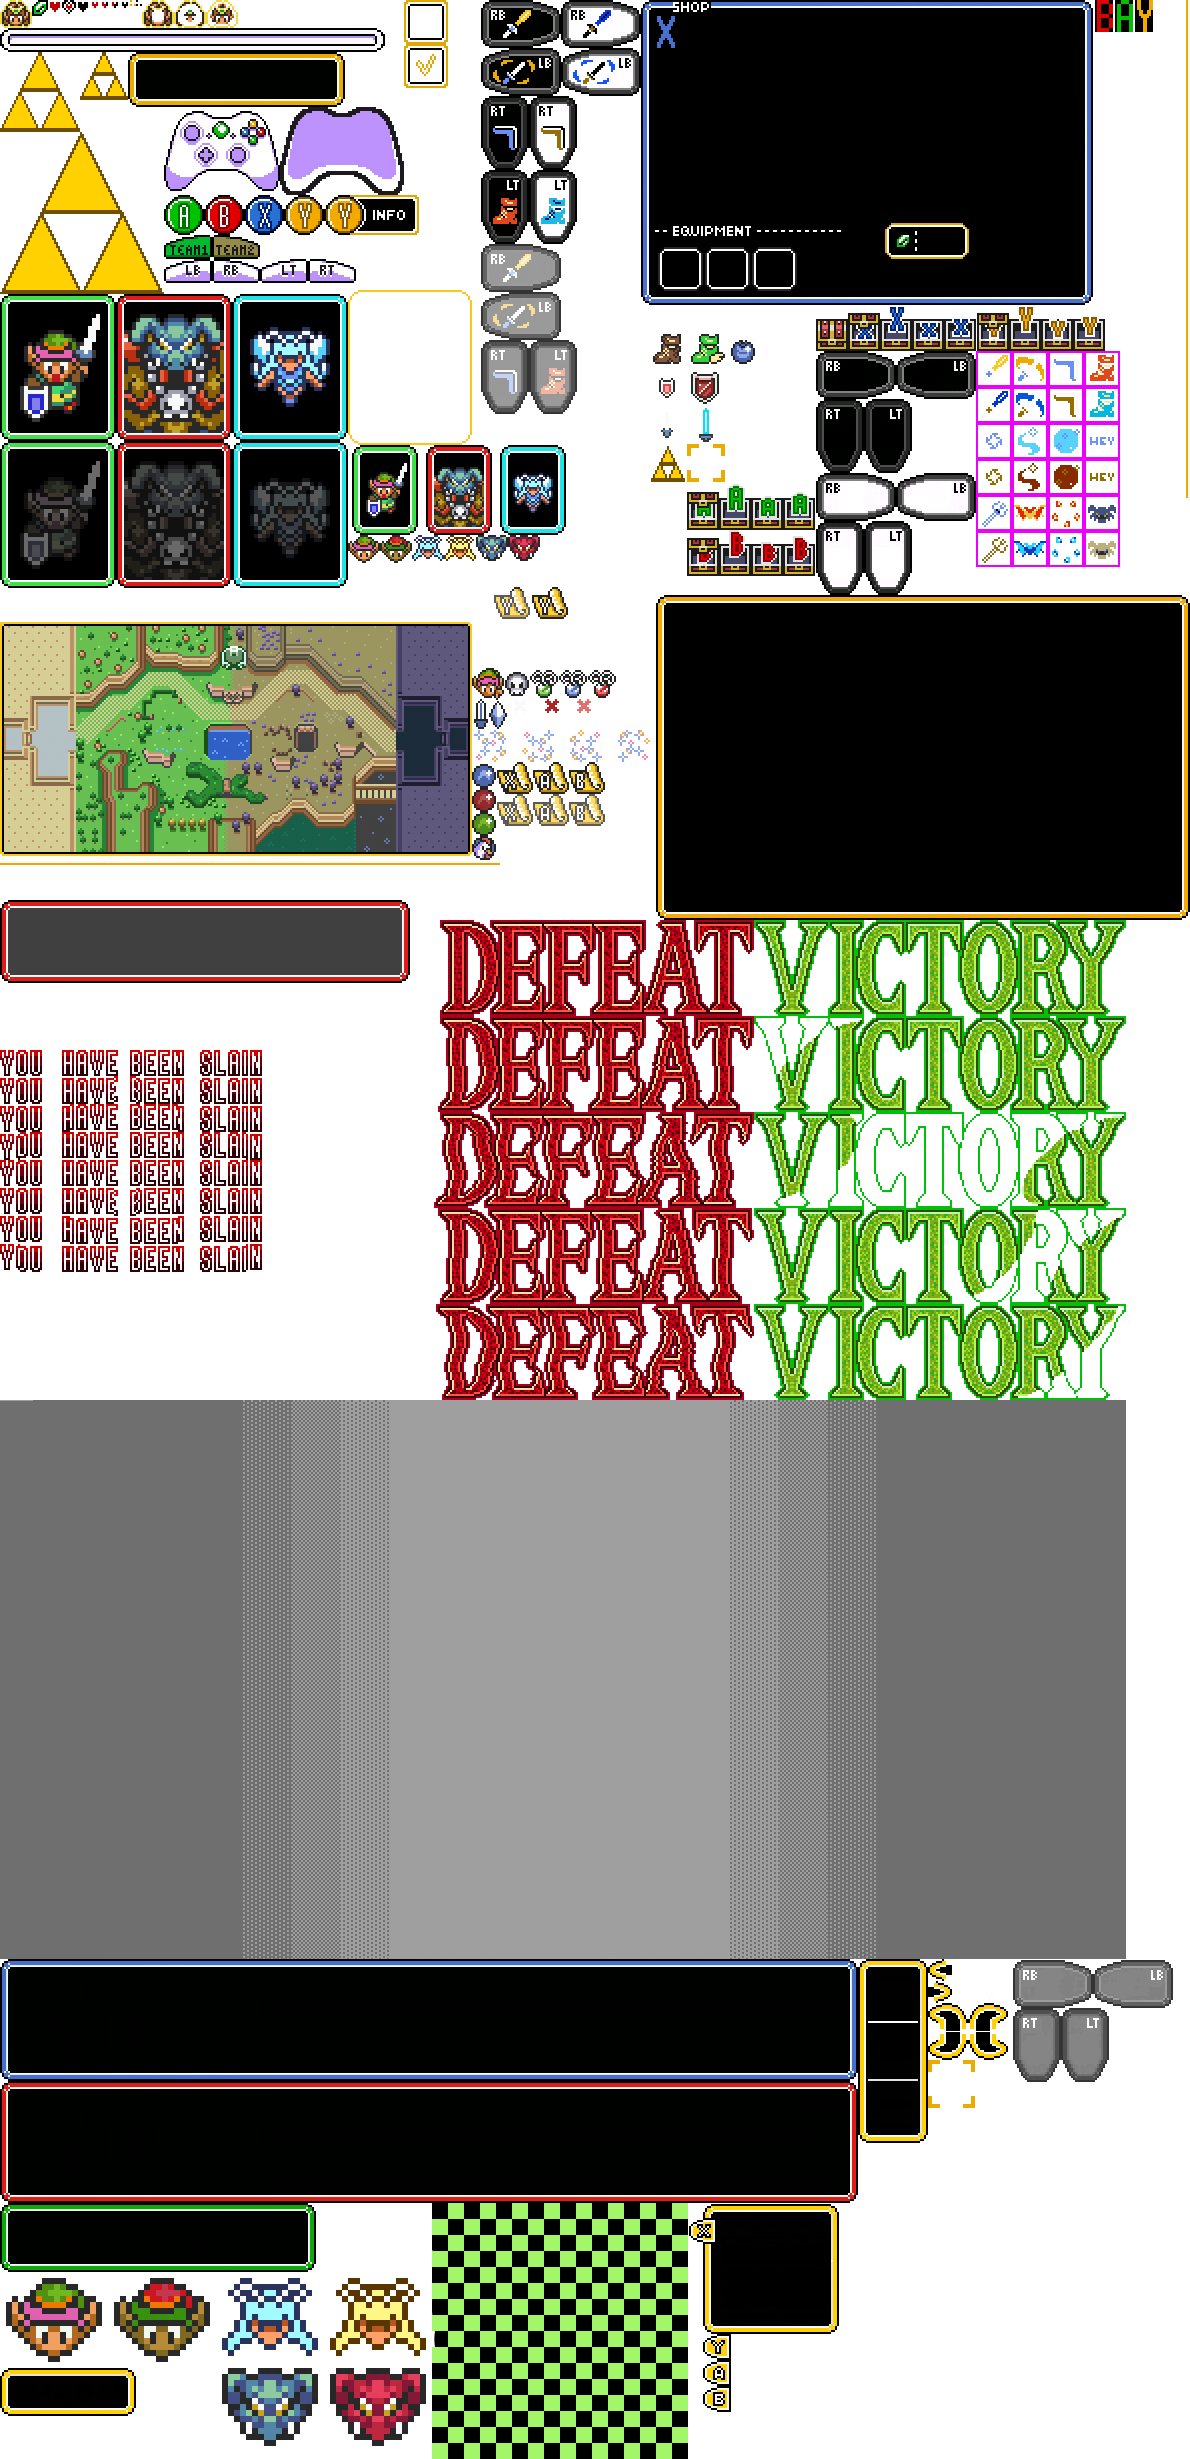
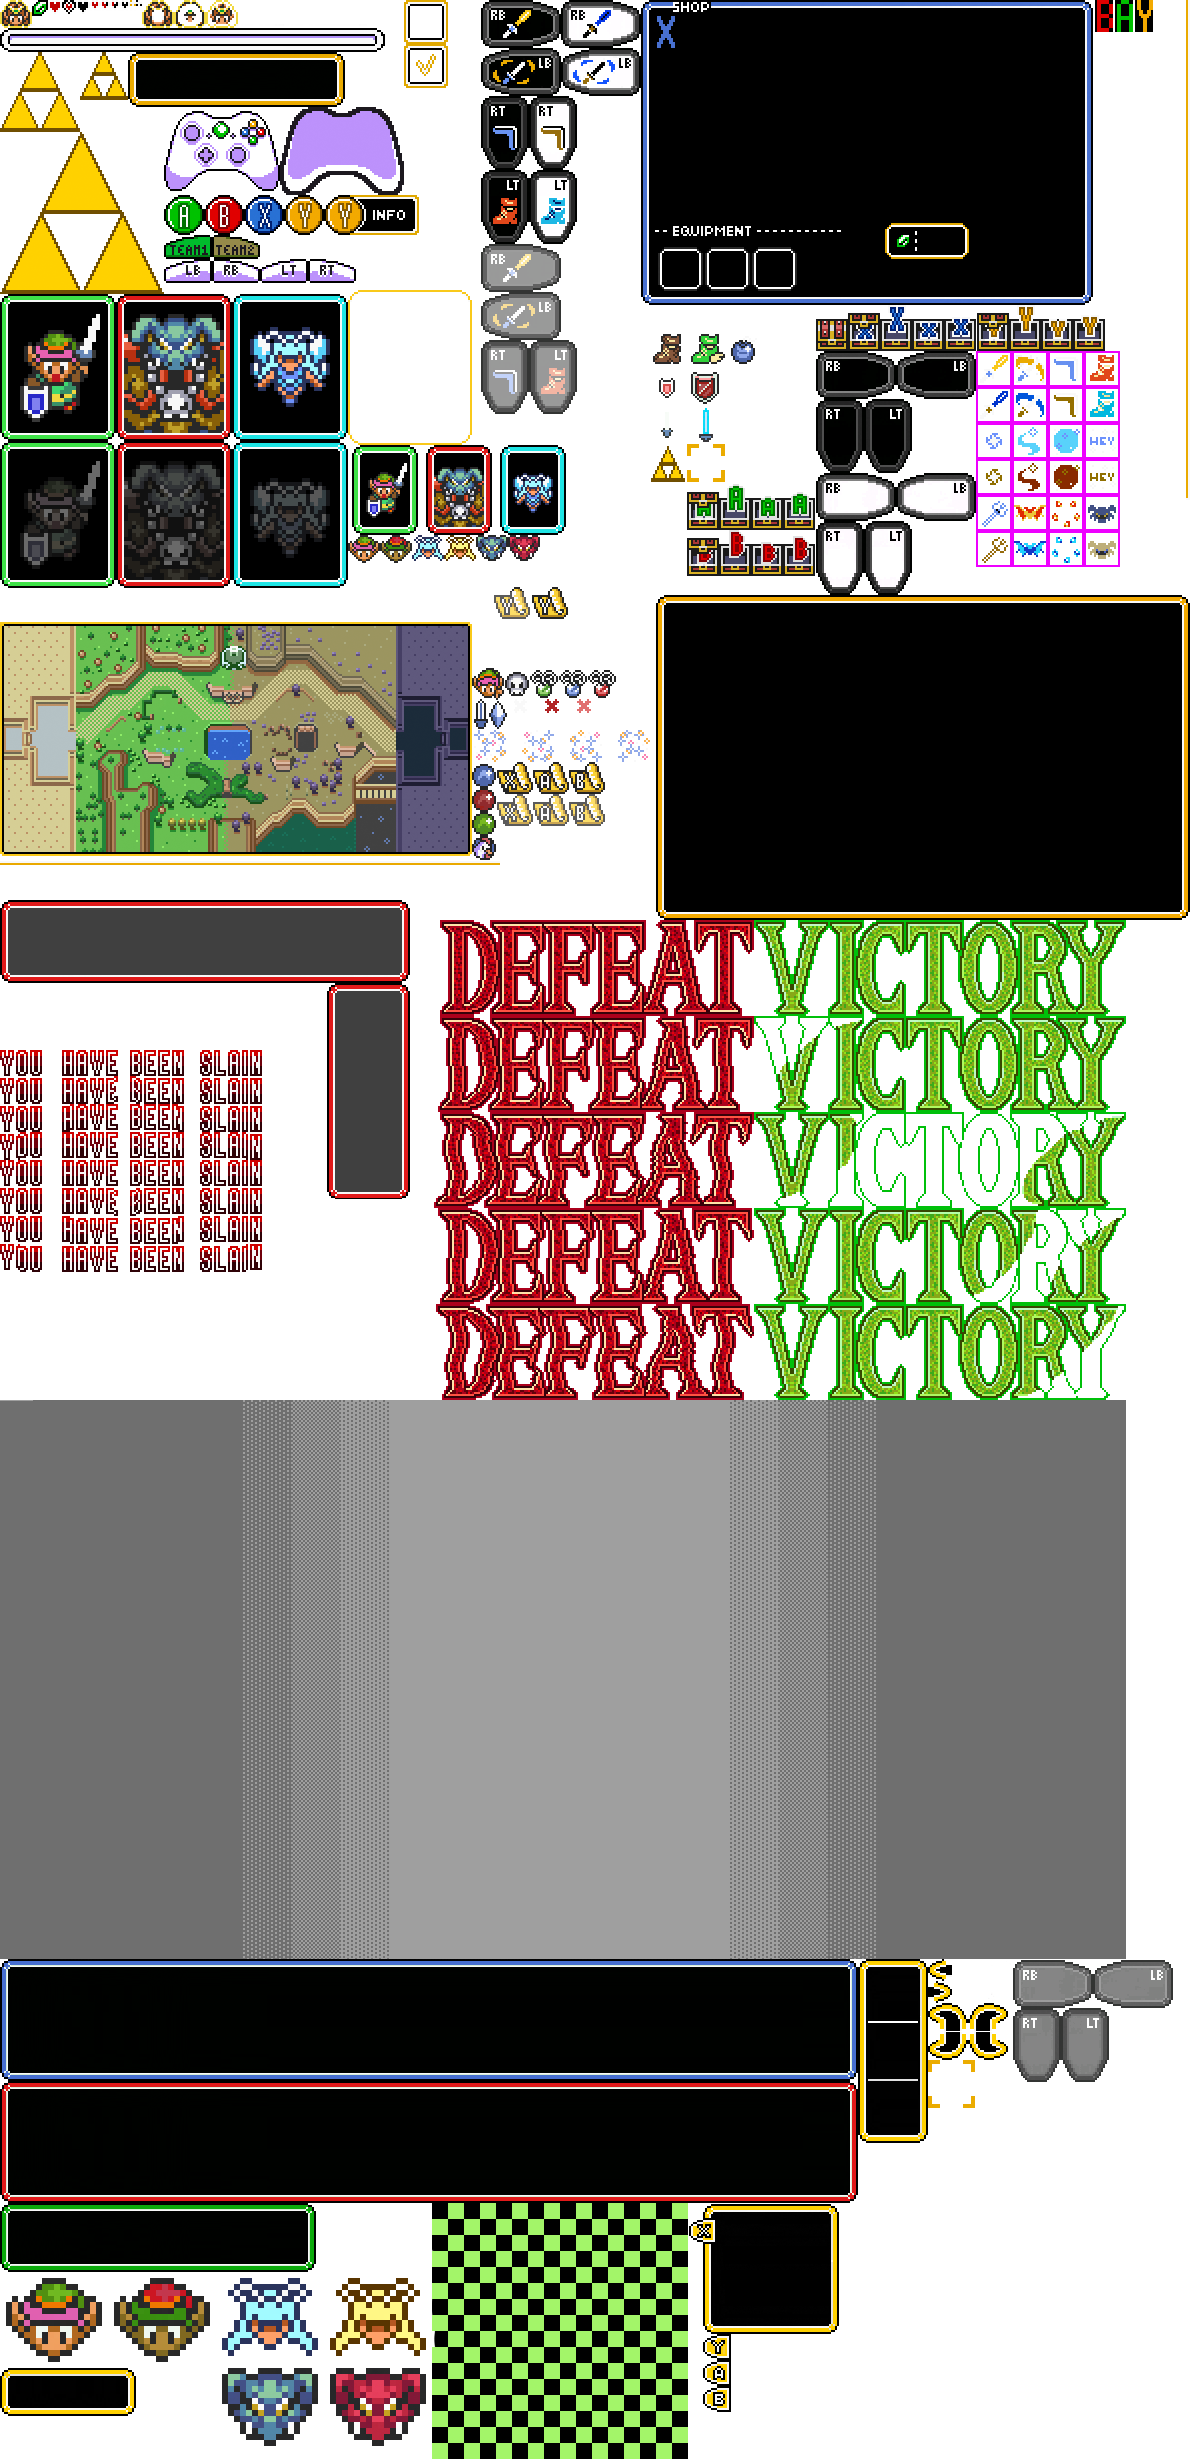
minimap stats working with real data + centered bar

Changed region(s): [[0.2487, 0.4018, 0.342, 0.4945]]

diff --git a/Motor2D/MainScene.cpp b/Motor2D/MainScene.cpp
@@ -63,8 +63,15 @@ bool MainScene::Start()
 
 	SDL_Rect stats_back_img_rect = { 0, 900, 410, 83 }; 
 	iPoint stats_back_img_pos = { screen.w / 2 - stats_back_img_rect.w / 2 - 10, screen.h - 90 };
+	
+	iPoint items_back_image_pos = { minimap_img_pos.x - 70, minimap_img_pos.y + 40 };
 
-	iPoint first_text_pos = { stats_back_img_pos.x + 20, stats_back_img_pos.y + 15 }; 
+	iPoint hp_text_pos = { stats_back_img_pos.x + 25, stats_back_img_pos.y + 15 }; 
+	iPoint power_text_pos = { hp_text_pos.x + 125 , hp_text_pos.y };
+	iPoint speed_text_pos = { hp_text_pos.x + 275, hp_text_pos.y };
+	iPoint kills_text_pos = { hp_text_pos.x + 55, hp_text_pos.y + 25 };
+	iPoint items_text_pos = { items_back_image_pos.x + 15, items_back_image_pos.y + 15 };
+	iPoint minions_text_pos = { hp_text_pos.x + 175, hp_text_pos.y + 25 };
 
 	MainSceneViewport curr_viewport;
 
@@ -75,8 +82,6 @@ bool MainScene::Start()
 		// Player UI
 		curr_viewport.viewport_window = App->gui->UI_CreateWin(iPoint(0, 0), screen.w, screen.h, 0, true);
 		curr_viewport.viewport_window->viewport = i + 1;
-		curr_viewport.progress_bar = curr_viewport.viewport_window->CreateImage(iPoint(screen.w / 2 - 192, screen.h / 40), { 0, 28, 385, 24 });
-		curr_viewport.princess = curr_viewport.viewport_window->CreateImage(iPoint(curr_viewport.progress_bar->rect.x + (curr_viewport.progress_bar->rect.w / 2) - 15, curr_viewport.progress_bar->rect.y - 5), { 0,0,32,28 });
 		curr_viewport.rupiees_img = curr_viewport.viewport_window->CreateImage(rupiees_pos, rupiees_rect);
 		curr_viewport.minimap_icon = curr_viewport.viewport_window->CreateImage(minimap_pos, minimap_rect);
 		curr_viewport.win_text = curr_viewport.viewport_window->CreateImage(win_text_pos, NULLRECT);
@@ -86,21 +91,60 @@ bool MainScene::Start()
 		// Minimap UI
 		curr_viewport.minimapstate.stats_back_image = curr_viewport.viewport_window->CreateImage(stats_back_img_pos, stats_back_img_rect);
 		curr_viewport.minimapstate.stats_back_image->blit_layer = MINIMAP_LAYER;
-		curr_viewport.minimapstate.hp_text = curr_viewport.viewport_window->CreateText(iPoint(first_text_pos.x, first_text_pos.y), App->font->game_font_25);
+
+		curr_viewport.minimapstate.hp_text = curr_viewport.viewport_window->CreateText(iPoint(hp_text_pos.x, hp_text_pos.y), App->font->game_font_25);
 		curr_viewport.minimapstate.hp_text->blit_layer = MINIMAP_LAYER;
-		curr_viewport.minimapstate.power_text = curr_viewport.viewport_window->CreateText(iPoint(first_text_pos.x + 130 , first_text_pos.y), App->font->game_font_25);
+		curr_viewport.minimapstate.hp_text->SetText("HP:");
+		curr_viewport.minimapstate.hp_num = curr_viewport.viewport_window->CreateText(iPoint(hp_text_pos.x + 30, hp_text_pos.y), App->font->game_font_25);
+		curr_viewport.minimapstate.hp_num->blit_layer = MINIMAP_LAYER;
+
+		curr_viewport.minimapstate.power_text = curr_viewport.viewport_window->CreateText(iPoint(power_text_pos.x , power_text_pos.y), App->font->game_font_25);
 		curr_viewport.minimapstate.power_text->blit_layer = MINIMAP_LAYER;
-		curr_viewport.minimapstate.speed_text = curr_viewport.viewport_window->CreateText(iPoint(first_text_pos.x + 280, first_text_pos.y), App->font->game_font_25);
+		curr_viewport.minimapstate.power_text->SetText("POWER:"); 
+		curr_viewport.minimapstate.power_num = curr_viewport.viewport_window->CreateText(iPoint(power_text_pos.x + 65, power_text_pos.y), App->font->game_font_25);
+		curr_viewport.minimapstate.power_num->blit_layer = MINIMAP_LAYER;
+
+		curr_viewport.minimapstate.speed_text = curr_viewport.viewport_window->CreateText(iPoint(speed_text_pos.x , speed_text_pos.y), App->font->game_font_25);
 		curr_viewport.minimapstate.speed_text->blit_layer = MINIMAP_LAYER;
-		curr_viewport.minimapstate.kills_text = curr_viewport.viewport_window->CreateText(iPoint(first_text_pos.x + 60, first_text_pos.y + 25), App->font->game_font_25);
+		curr_viewport.minimapstate.speed_text->SetText("SPEED:");
+		curr_viewport.minimapstate.speed_num = curr_viewport.viewport_window->CreateText(iPoint(speed_text_pos.x + 60, speed_text_pos.y), App->font->game_font_25);
+		curr_viewport.minimapstate.speed_num->blit_layer = MINIMAP_LAYER;
+
+		curr_viewport.minimapstate.kills_text = curr_viewport.viewport_window->CreateText(iPoint(kills_text_pos.x , kills_text_pos.y), App->font->game_font_25);
 		curr_viewport.minimapstate.kills_text->blit_layer = MINIMAP_LAYER;
-		curr_viewport.minimapstate.minions_text = curr_viewport.viewport_window->CreateText(iPoint(first_text_pos.x + 210, first_text_pos.y + 25), App->font->game_font_25);
+		curr_viewport.minimapstate.kills_text->SetText("KILLS:"); 
+		curr_viewport.minimapstate.kills_num = curr_viewport.viewport_window->CreateText(iPoint(kills_text_pos.x + 60, kills_text_pos.y), App->font->game_font_25);
+		curr_viewport.minimapstate.kills_num->blit_layer = MINIMAP_LAYER;
+
+		curr_viewport.minimapstate.minions_text = curr_viewport.viewport_window->CreateText(iPoint(minions_text_pos.x + 10, minions_text_pos.y), App->font->game_font_25);
 		curr_viewport.minimapstate.minions_text->blit_layer = MINIMAP_LAYER;
+		curr_viewport.minimapstate.minions_text->SetText("MINIONS:");
+
+		curr_viewport.minimapstate.minions_num = curr_viewport.viewport_window->CreateText(iPoint(minions_text_pos.x +100, minions_text_pos.y), App->font->game_font_25);
+		curr_viewport.minimapstate.minions_num->blit_layer = MINIMAP_LAYER;
+
+		curr_viewport.minimapstate.items_background = curr_viewport.viewport_window->CreateImage(items_back_image_pos, { 327, 983, 83, 216 });
+		curr_viewport.minimapstate.items_background->blit_layer = MINIMAP_LAYER;
+
+		curr_viewport.minimapstate.items_text = curr_viewport.viewport_window->CreateText(items_text_pos, App->font->game_font_25);
+		curr_viewport.minimapstate.items_text->blit_layer = MINIMAP_LAYER;
+		curr_viewport.minimapstate.items_text->SetText("ITEMS");
+
+		curr_viewport.minimapstate.item_1_img = curr_viewport.viewport_window->CreateImage(iPoint(items_back_image_pos.x + 26, items_back_image_pos.y + 50), { 0,0,0,0 });
+		curr_viewport.minimapstate.item_2_img = curr_viewport.viewport_window->CreateImage(iPoint(items_back_image_pos.x + 26, items_back_image_pos.y + 100), { 0,0,0,0 });
+		curr_viewport.minimapstate.item_3_img = curr_viewport.viewport_window->CreateImage(iPoint(items_back_image_pos.x + 26, items_back_image_pos.y + 150), { 0,0,0,0 });
+
+		curr_viewport.minimapstate.item_1_img->blit_layer = MINIMAP_LAYER;
+		curr_viewport.minimapstate.item_2_img->blit_layer = MINIMAP_LAYER;
+		curr_viewport.minimapstate.item_3_img->blit_layer = MINIMAP_LAYER;
+
 		curr_viewport.minimapstate.Disable(); 
 
 		ui_viewports.push_back(curr_viewport);
 	}
 	// ------------------
+
+
 
 	// Creating pause UI
 	uint w, h;
@@ -108,6 +152,10 @@ bool MainScene::Start()
 	main_scene_window = App->gui->UI_CreateWin({ 0,0 }, w, h, 10, false);
 
 	SDL_Rect win_size = { 0,0, w,h };
+
+	// Common UI
+	progress_bar = main_scene_window->CreateImage(iPoint(w / 2 - 192, h / 2 - 12), { 0, 28, 385, 24 });
+	princess = main_scene_window->CreateImage(iPoint(progress_bar->rect.x + (progress_bar->rect.w / 2) - 15, progress_bar->rect.y - 5), { 0,0,32,28 });
 
 	SDL_Rect back_button_rect = { 128, 52, 217, 55 };
 
@@ -166,7 +214,7 @@ bool MainScene::Start()
 			break;
 		}
 	}
-	
+	def = true; 
 	if (!def)
 	{
 		Player* p1 = player_manager->AddPlayer(App->scene->players[0].character, iPoint(300, 700), 1, 1, 1, 1);
@@ -307,6 +355,16 @@ bool MainScene::Update(float dt)
 		else
 			UpdateWinnerAnim(winner, 0);
 	}		
+
+	for (int i = 0; i < 4; i++)
+	{
+		if (App->input->GetControllerButton(i, SDL_CONTROLLER_BUTTON_Y) == KEY_DOWN)
+		{
+			ui_viewports.at(i).minimapstate.SetPlayerStats(i); 
+		}
+
+	}
+
 
 	// Test
 	if (App->input->GetKey(SDL_SCANCODE_E) == KEY_DOWN)
@@ -494,7 +552,7 @@ void MainScene::UpdateProgressBar()
 	float percentage = (zelda_pos.x-36) * 100 / 95;
 	percentage /= 100;
 
-	int delta = (ui_viewports[0].progress_bar->rect.w * percentage) - ui_viewports[0].progress_bar->rect.w/2;
+	int delta = (progress_bar->rect.w * percentage) - progress_bar->rect.w/2;
 
 	for (vector<MainSceneViewport>::iterator it = ui_viewports.begin(); it != ui_viewports.end(); it++)
 	{
@@ -624,31 +682,41 @@ void MainScene::GetPlayerItemsRects()
 void MinimapState::Enable()
 {
 	stats_back_image->enabled = true;
-
-	hp_text->SetText("HP: 300");
-	hp_text->enabled = true;
-
-	power_text->SetText("POWER: 300");
+	hp_text->enabled = true;	
+	hp_num->enabled = true; 
 	power_text->enabled = true;
-
-	speed_text->SetText("SPEED: 300");
+	power_num->enabled = true;
 	speed_text->enabled = true;
-
-	kills_text->SetText("KILLS: 4/7");
+	speed_num->enabled = true;
 	kills_text->enabled = true;
-
-	minions_text->SetText("MINIONS: 5");
+	kills_num->enabled = true;
 	minions_text->enabled = true;
+	minions_num->enabled = true;
+	items_text->enabled = true; 
+	items_background->enabled = true; 
+	item_1_img->enabled = true; 
+	item_2_img->enabled = true;
+	item_3_img->enabled = true;
 }
 
 void MinimapState::Disable()
 {
 	stats_back_image->enabled = false;
 	hp_text->enabled = false;
+	hp_num->enabled = false;
 	power_text->enabled = false;
+	power_num->enabled = false;
 	speed_text->enabled = false;
+	speed_num->enabled = false;
 	kills_text->enabled = false;
+	kills_num->enabled = false;
 	minions_text->enabled = false;
+	minions_num->enabled = false;
+	items_text->enabled = false;
+	items_background->enabled = false;
+	item_1_img->enabled = false;
+	item_2_img->enabled = false;
+	item_3_img->enabled = false;
 }
 
 void PauseUI::SetPauseUI(bool ui_state)
@@ -713,7 +781,7 @@ void PauseUI::UpdatePause()
 			break;
 
 		case p_e_quit:
-			App->console->AddText("quit", Input); 
+			App->scene->ChangeScene(App->scene->main_scene); 
 			break;
 
 		case p_e_null:
@@ -725,4 +793,20 @@ void PauseUI::UpdatePause()
 	}
 
 	MoveCursor(); 
+}
+
+void MinimapState::SetPlayerStats(int player)
+{
+	Entity* curr_player = nullptr; 
+	curr_player = App->scene->main_scene->player_manager->GetPlayer(player);
+
+	hp_num->SetText(to_string(curr_player->stats.base_hp));
+	power_num->SetText(to_string(curr_player->stats.power));
+	speed_num->SetText(to_string(curr_player->stats.speed));
+	kills_num->SetText(to_string(App->scene->players[player].kills));
+	minions_num->SetText(to_string(App->scene->players[player].minions));
+
+	item_1_img->image = App->scene->main_scene->shop_manager->GetPlayerItem(player, 0);
+	item_2_img->image = App->scene->main_scene->shop_manager->GetPlayerItem(player, 1);
+	item_3_img->image = App->scene->main_scene->shop_manager->GetPlayerItem(player, 2); 
 }

diff --git a/Motor2D/MainScene.h b/Motor2D/MainScene.h
@@ -59,21 +59,38 @@ struct MinimapState
 	UI_Image* stats_back_image = nullptr; 
 
 	UI_Text* hp_text = nullptr;
-	UI_Text* power_text = nullptr;
-	UI_Text* speed_text = nullptr;
-	UI_Text* kills_text = nullptr;
-	UI_Text* minions_text = nullptr;
+	UI_Text* hp_num = nullptr; 
 
-	void Enable();
-	void Disable();
+	UI_Text* power_text = nullptr;
+	UI_Text* power_num = nullptr;
+
+	UI_Text* speed_text = nullptr;
+	UI_Text* speed_num = nullptr;
+
+	UI_Text* kills_text = nullptr;
+	UI_Text* kills_num = nullptr;
+
+	UI_Text* minions_text = nullptr;
+	UI_Text* minions_num = nullptr;
+
+	UI_Image* items_background = nullptr; 
+	UI_Text*  items_text = nullptr; 
+
+	UI_Image* item_1_img = nullptr; 
+	UI_Image* item_2_img = nullptr;
+	UI_Image* item_3_img = nullptr;
+
+	void Enable(); 
+	void Disable(); 
+
+	// Sets the number of the player stats 
+	void SetPlayerStats(int player);
 
 };
 
 struct MainSceneViewport
 {
 	UI_Window*			viewport_window = nullptr;
-	UI_Image*			princess = nullptr;
-	UI_Image*			progress_bar = nullptr;
 	UI_Image*			rupiees_img = nullptr;
 	UI_Image*			minimap_icon = nullptr;
 	UI_Image*			win_text = nullptr;
@@ -124,6 +141,9 @@ public:
 
 	// UI Elements
 	vector<MainSceneViewport>	ui_viewports;
+
+	UI_Image*			progress_bar = nullptr;
+	UI_Image*			princess = nullptr;
 
 private:
 	UI_Window*			main_scene_window = nullptr;

diff --git a/Motor2D/CharacterSelectionScene.cpp b/Motor2D/CharacterSelectionScene.cpp
@@ -182,7 +182,7 @@ bool CharacterSelectionScene::Update(float dt)
 		}
 
 		// Move Left
-		if (App->input->GetControllerButton(App->scene->players[i].gamepad - 1, SDL_CONTROLLER_BUTTON_LEFTSHOULDER) == KEY_DOWN && viewports_data[i].is_ready == false)
+		if (App->input->GetControllerButton(App->scene->players[i].gamepad - 1, SDL_CONTROLLER_BUTTON_DPAD_LEFT) == KEY_DOWN && viewports_data[i].is_ready == false)
 		{
 			switch (i)
 			{
@@ -202,7 +202,7 @@ bool CharacterSelectionScene::Update(float dt)
 		}
 
 		// Move right
-		else if (App->input->GetControllerButton(App->scene->players[i].gamepad - 1, SDL_CONTROLLER_BUTTON_RIGHTSHOULDER) == KEY_DOWN && viewports_data[i].is_ready == false)
+		else if (App->input->GetControllerButton(App->scene->players[i].gamepad - 1, SDL_CONTROLLER_BUTTON_DPAD_RIGHT) == KEY_DOWN && viewports_data[i].is_ready == false)
 		{
 			switch (i)
 			{

diff --git a/Motor2D/ShopManager.h b/Motor2D/ShopManager.h
@@ -60,10 +60,13 @@ public:
 	bool Update();
 	bool CleanUp();
 
+	SDL_Rect GetPlayerItem(int player_index, int item_index);
+
 private:
 	void ChangeShopState(int view);
 	void UpdateItemInfo(int view);
 	void UpdatePlayerItems(int view, Player* player);
+
 
 public:
 	UI_Window*		shop_window = nullptr;

diff --git a/Motor2D/ShopManager.cpp b/Motor2D/ShopManager.cpp
@@ -535,3 +535,8 @@ void ShopManager::UpdatePlayerItems(int view, Player * player)
 		shops[view]->player_items[i]->image = player->items[i]->image_rect;
 	}
 }
+
+SDL_Rect ShopManager::GetPlayerItem(int player_index, int item_index)
+{
+	return shops[player_index]->player_items[item_index]->image; 
+}

diff --git a/Motor2D/PlayerManager.cpp b/Motor2D/PlayerManager.cpp
@@ -416,6 +416,11 @@ void PlayerManager::AllowInput(int player)
 	}
 }
 
+Entity* PlayerManager::GetPlayer(int index)
+{
+	return players.at(index)->entity; 
+}
+
 void PlayerManager::PlayerInput(Player * curr_player, int index)
 {
 	// Get abilities mapping

diff --git a/Motor2D/PlayerManager.h b/Motor2D/PlayerManager.h
@@ -142,6 +142,9 @@ public:
 	//Allow player input. 0 to allow all
 	void AllowInput(int player);
 
+	// Get player from index 
+	Entity* GetPlayer(int index);
+
 private:
 	void PlayerInput(Player* player, int index);
 	void MoveCamera(Player* player);

diff --git a/Motor2D/MinimapManager.h b/Motor2D/MinimapManager.h
@@ -62,6 +62,8 @@ public:
 	// Enable or disable the minimap on a viewport (1 to 4)
 	void SetActive(bool set, int viewport);
 
+
+
 private:
 	SDL_Rect GetPlayerRect(Player* pl);
 
